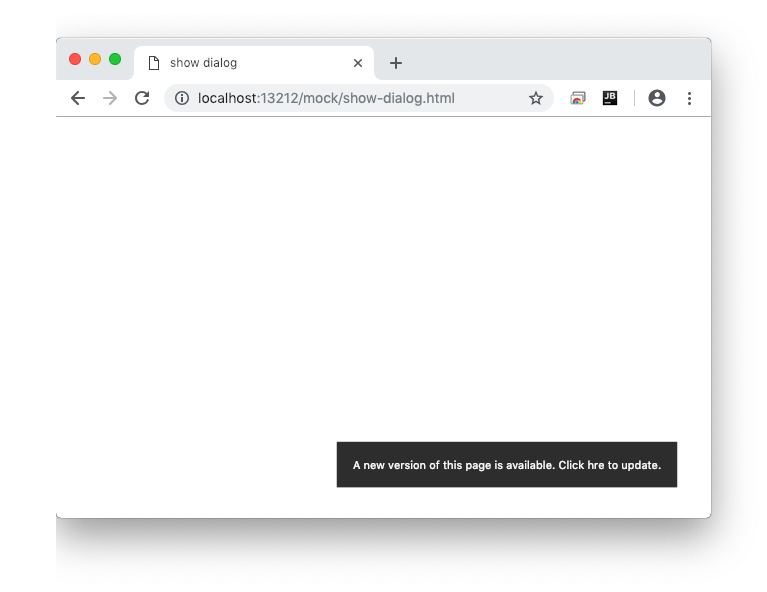
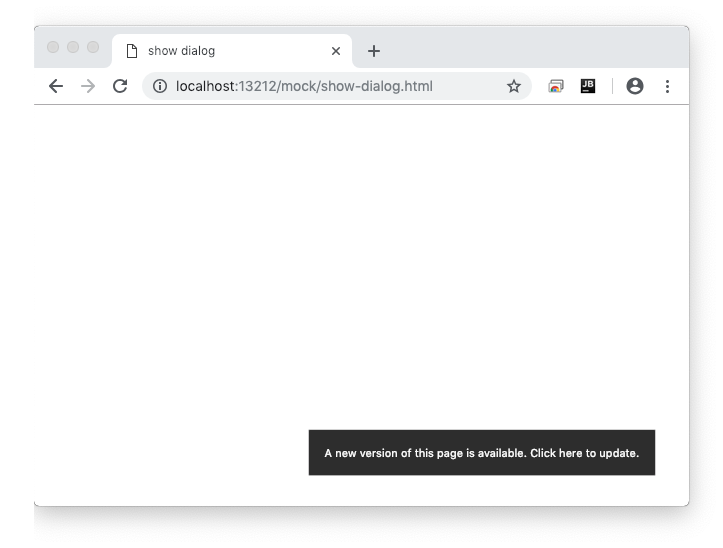
fix(src): fix default style

Changed region(s): [[0.0304, 0.031, 0.9737, 0.9617]]

diff --git a/src/service-worker-updatefound-refresh-dialog.js b/src/service-worker-updatefound-refresh-dialog.js
@@ -22,11 +22,11 @@ function showRefreshUI(registration, { message, onClick }) {
       text-align: var(--sw-updatefound-refresh-dialog--text-align, center);
       border-radius: var(--sw-updatefound-refresh-dialog--border-radius, 2px);
       padding: var(--sw-updatefound-refresh-dialog--padding, 16px);
-      position: text-align: var(--sw-updatefound-refresh-dialog--position, fixed);
-      z-index: var(--sw-updatefound-refresh-dialog--z-index, 1px);
-      left: var(--sw-updatefound-refresh-dialog--left, auto);
-      right: var(--sw-updatefound-refresh-dialog--left, 5%);
-      top: var(--sw-updatefound-refresh-dialog--left, auto);
+      position: var(--sw-updatefound-refresh-dialog--position, fixed);
+      z-index: var(--sw-updatefound-refresh-dialog--z-index, 1);
+      left: var(--sw-updatefound-refresh-dialog--left, initial);
+      right: var(--sw-updatefound-refresh-dialog--right, 5%);
+      top: var(--sw-updatefound-refresh-dialog--top, initial);
       bottom: var(--sw-updatefound-refresh-dialog--bottom, 30px);
 `;
     dialog.textContent = message;

diff --git a/README.md b/README.md
@@ -69,18 +69,18 @@ Dialog's style use [CSS variables](https://developer.mozilla.org/en-US/docs/Web/
 You can overwrite it by CSS Variables.
 
 ```css
-min-width: var(--sw-updatefound-refresh-dialog--min-width, 250px);
-color: var(--sw-updatefound-refresh-dialog--color, #fff);
-background-color: var(--sw-updatefound-refresh-dialog--background-color, #333);
-text-align: var(--sw-updatefound-refresh-dialog--text-align, center);
-border-radius: var(--sw-updatefound-refresh-dialog--border-radius, 2px);
-padding: var(--sw-updatefound-refresh-dialog--padding, 16px);
-position: text-align: var(--sw-updatefound-refresh-dialog--position, fixed);
-z-index: var(--sw-updatefound-refresh-dialog--z-index, 1px);
-left: var(--sw-updatefound-refresh-dialog--left, auto);
-right: var(--sw-updatefound-refresh-dialog--left, 5%);
-top: var(--sw-updatefound-refresh-dialog--left, auto);
-bottom: var(--sw-updatefound-refresh-dialog--bottom, 30px);
+  min-width: var(--sw-updatefound-refresh-dialog--min-width, 250px);
+  color: var(--sw-updatefound-refresh-dialog--color, #fff);
+  background-color: var(--sw-updatefound-refresh-dialog--background-color, #333);
+  text-align: var(--sw-updatefound-refresh-dialog--text-align, center);
+  border-radius: var(--sw-updatefound-refresh-dialog--border-radius, 2px);
+  padding: var(--sw-updatefound-refresh-dialog--padding, 16px);
+  position: var(--sw-updatefound-refresh-dialog--position, fixed);
+  z-index: var(--sw-updatefound-refresh-dialog--z-index, 1);
+  left: var(--sw-updatefound-refresh-dialog--left, initial);
+  right: var(--sw-updatefound-refresh-dialog--right, 5%);
+  top: var(--sw-updatefound-refresh-dialog--top, initial);
+  bottom: var(--sw-updatefound-refresh-dialog--bottom, 30px);
 ```
 
 For example, you can overwrite it by defining `--sw-updatefound-refresh-dialog--left`.
